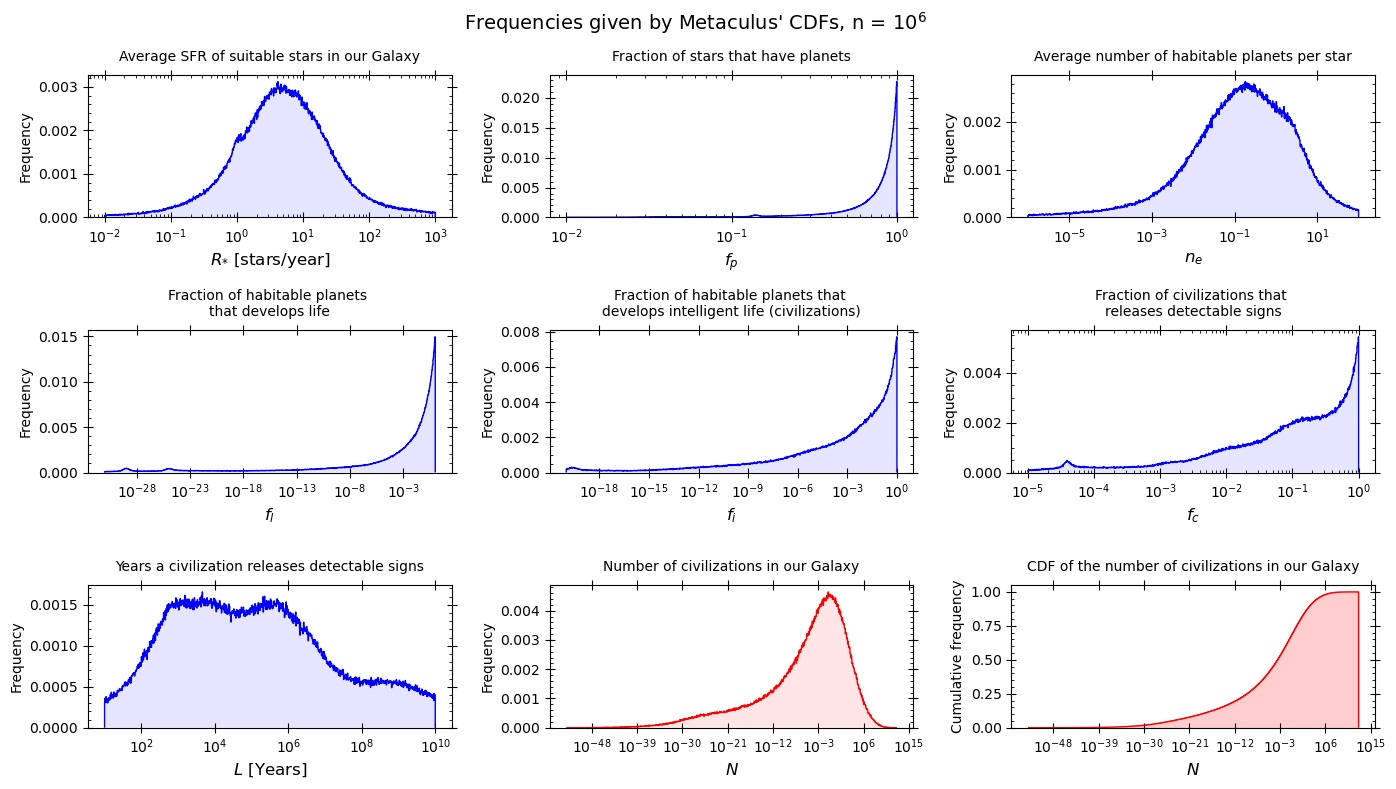
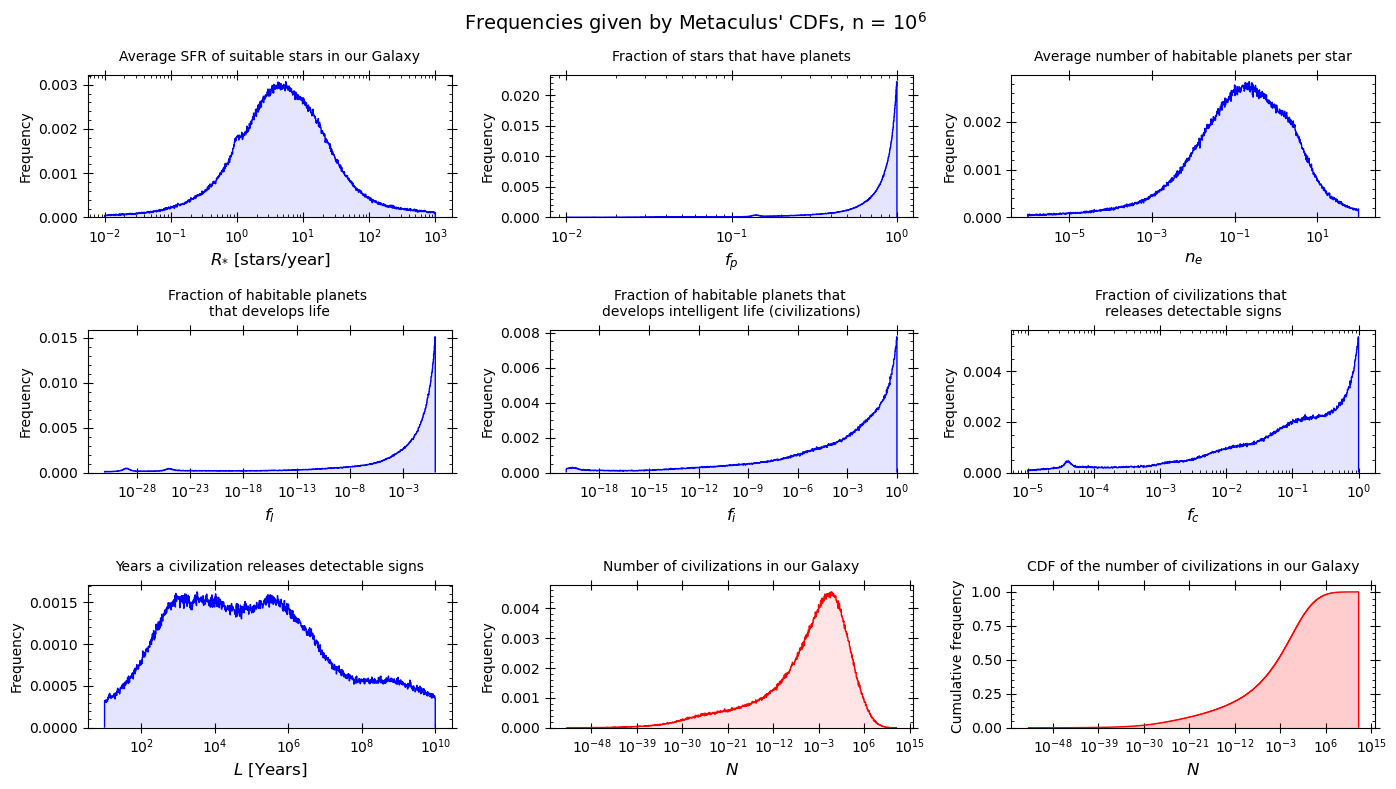
Ajustes de textos e texturas nos gráficos

diff --git a/Drake_Metaculus.py b/Drake_Metaculus.py
@@ -10,6 +10,8 @@ from statsmodels.distributions.empirical_distribution import ECDF
 
 #------------------------------------------------------------------------------
 #------------------------------------------------------------------------------
+print("Hello. Starting!")
+
 # urls of the csv data from the API
 url_Rs = "https://www.metaculus.com/api2/questions/1337/download_csv/"
 url_fp = "https://www.metaculus.com/api2/questions/1338/download_csv/"
@@ -79,37 +81,37 @@ def cdf_setter(url, xmin, xmax, q = 1000):
 #------------------------------------------------------------------------------
 #------------------------------------------------------------------------------
 # Running the function
-print("Reading and reducing the data...")
+print("Reading and reducing data...")
 
 quantity = 10**6 # quantity of data in the simulation
 
 df_Rs_cdf, df_Rs_pdf = cdf_setter(url = url_Rs, xmin = 0.01, xmax = 1000, q = quantity)
-print("Rs done!")
+print("Rs done.")
 df_fp_cdf, df_fp_pdf = cdf_setter(url = url_fp, xmin = 0.01, xmax = 1, q = quantity)
-print("fp done!")
+print("fp done.")
 df_ne_cdf, df_ne_pdf = cdf_setter(url = url_ne, xmin = 10**-6, xmax = 100, q = quantity)
-print("ne done!")
+print("ne done.")
 df_fl_cdf, df_fl_pdf = cdf_setter(url = url_fl, xmin = 10**-31, xmax = 1, q = quantity)
-print("fl done!")
+print("fl done.")
 df_fi_cdf, df_fi_pdf = cdf_setter(url = url_fi, xmin = 10**-20, xmax = 1, q = quantity)
-print("fi done!")
+print("fi done.")
 df_fc_cdf, df_fc_pdf = cdf_setter(url = url_fc, xmin = 10**-5, xmax = 1, q = quantity)
-print("fc done!")
+print("fc done.")
 df_L_cdf, df_L_pdf = cdf_setter(url = url_L, xmin = 10, xmax = 10**10, q = quantity)
-print("L done!")
+print("L done.")
 
 #------------------------------------------------------------------------------
 #------------------------------------------------------------------------------
-# Multiplying the factors
+# Multiplying the factors to find the N's
 print("Multiplying the factors...")
 
-N_cdf = (df_Rs_cdf["x_log"] * 
-         df_fp_cdf["x_log"] * 
-         df_ne_cdf["x_log"] * 
-         df_fl_cdf["x_log"] * 
-         df_fi_cdf["x_log"] * 
-         df_fc_cdf["x_log"] * 
-         df_L_cdf["x_log"])
+Ns = (df_Rs_cdf["x_log"] * 
+      df_fp_cdf["x_log"] * 
+      df_ne_cdf["x_log"] * 
+      df_fl_cdf["x_log"] * 
+      df_fi_cdf["x_log"] * 
+      df_fc_cdf["x_log"] * 
+      df_L_cdf["x_log"])
 
 #------------------------------------------------------------------------------
 #------------------------------------------------------------------------------
@@ -252,7 +254,7 @@ histogram(ax = ax7,
           nbins = nbins)
 # N
 histogram(ax = ax8, 
-          df_f = N_cdf,
+          df_f = Ns,
           color = (1.0, 0.0, 0.0, 0.1),
           edgecolor = "red",
           label = "Histo N", 
@@ -263,10 +265,10 @@ histogram(ax = ax8,
 
 #------------------------------------------------------------------------------
 # N cumulative fraction
-log_space_bins = np.logspace(np.log10(min(N_cdf)), np.log10(max(N_cdf)), nbins)
-weights = np.zeros_like(N_cdf) + 1./quantity
+log_space_bins = np.logspace(np.log10(min(Ns)), np.log10(max(Ns)), nbins)
+weights = np.zeros_like(Ns) + 1./quantity
 
-ax9.hist(N_cdf, 
+ax9.hist(Ns, 
          bins = log_space_bins, 
          histtype = "step",
          fill = True,
@@ -292,7 +294,7 @@ ax9.tick_params(which = "minor", direction = "in", length = 2)
 ax9.tick_params(which = "both", bottom = True, top = True, left = True, right = True)
 ax9.tick_params(labelbottom = True, labeltop = False, labelleft = True, labelright = False)
 
-ecdft = ECDF(N_cdf)
+ecdft = ECDF(Ns)
 ax9.fill_between(log_space_bins, ecdft(log_space_bins), color = "red", alpha = 0.1)
                  
 #------------------------------------------------------------------------------
@@ -398,12 +400,12 @@ plot(ax = ax7,
 print('Making the "smooth plot"...')
 
 # Estimating the PDF in log space, because it is not working in linear
-log_data = np.log10(N_cdf)
+log_data = np.log10(Ns)
 N_density = gaussian_kde(log_data)
 x = np.linspace(min(log_data), max(log_data), 100)
 
 # This integral should be ~ 1
-print("This integral should be ~1 \nIntegral =", simps(N_density(x), x))
+print("The next integral should be ~1 \nIntegral =", simps(N_density(x), x))
 
 #---------------------------------------
 ax8.plot(x, N_density(x), 
@@ -414,7 +416,7 @@ ax8.plot(x, N_density(x),
 # Design
 ax8.set_xlabel("log($N$)", fontsize = 10)
 ax8.set_ylabel("Probability", fontsize = 10)
-ax8.set_title("Number of civilizations in our galaxy", fontsize = 10, pad = 10)
+ax8.set_title("Number of civilizations in our Galaxy", fontsize = 10, pad = 10)
 #ax8.grid(True, linestyle = ":", linewidth = "1")
 
 # Axes
@@ -431,9 +433,9 @@ ax8.fill_between(x, N_density(x), color = "red", alpha = 0.1)
 # N CDF
 print('Making the CDF...')
 
-log_space_bins = np.logspace(np.log10(min(N_cdf)), np.log10(max(N_cdf)), 100)
+log_space_bins = np.logspace(np.log10(min(Ns)), np.log10(max(Ns)), 100)
 
-ax9.ecdf(N_cdf, 
+ax9.ecdf(Ns, 
          color = "red", 
          linewidth = 2,
          label = "Plot N ecdf")
@@ -476,9 +478,9 @@ ax1, ax2 = axes[0], axes[1]
 
 #------------------------------------------------------------------------------
 # N frequency in a smooth curve
-log_space_bins_edges = np.logspace(np.log10(min(N_cdf)), np.log10(max(N_cdf)), 1001)
+log_space_bins_edges = np.logspace(np.log10(min(Ns)), np.log10(max(Ns)), 1001)
 
-counts, _ = np.histogram(N_cdf, bins = log_space_bins_edges) # counts, bins
+counts, _ = np.histogram(Ns, bins = log_space_bins_edges) # counts, bins
 
 log_bin_widths = np.diff(log_space_bins_edges)
 total_observations = counts.sum()
@@ -504,7 +506,7 @@ ax1.plot(log_space_bins_edges[1:], N_interpolated,
 # Design
 ax1.set_xlabel("$N$", fontsize = 12)
 ax1.set_ylabel("Frequency of $N$", fontsize = 10)
-ax1.set_title("Number of civilizations in our galaxy", fontsize = 12, pad = 10)
+ax1.set_title("Number of civilizations in our Galaxy", fontsize = 12, pad = 10)
 #ax1.grid(True, linestyle = ":", linewidth = "1")
 
 # Axes
@@ -520,8 +522,28 @@ ax1.tick_params(labelbottom = True, labeltop = False, labelleft = True, labelrig
 ax1.fill_between(log_space_bins_midpoints, N_interpolated, color = "red", alpha = 0.1)
 
 #---------------------------------------
-# Alone in the Galaxy marker filling
-points = np.logspace(np.log10(min(N_cdf)), np.log10(1), 1000)
+# Not alone in the Galaxy hatch filling
+points = np.logspace(np.log10(1), np.log10(max(Ns)), 1000)
+
+ax1.fill_between(points, 
+                 interpolation(np.log10(points)), 
+                 hatch = '||', 
+                 edgecolor = (0,0,0,0.3), 
+                 fc = (0,1,0,0.0), 
+                 linewidth = 0.0,
+                 zorder = 1)
+
+# Adding text with info of probability of being alone in the galaxy
+# {:.0f} formats the number to have 0 places after the decimal, effectively making it an integer
+probability_not_alone_MW = (ecdft(10**12) - ecdft(1))*100
+formatted_probability = f"{probability_not_alone_MW:.0f}%"
+text = "Probability of\n NOT being\n  alone in the\n   Milky Way\n    galaxy\n    ($N > 1$): " + formatted_probability
+ax1.text(9*10**1, 0.0033, text, fontsize = 8)
+ax1.text(10**1, 0.00025, f'{probability_not_alone_MW:.0f}%', fontsize = 12)
+
+#---------------------------------------
+# Alone in the Galaxy hatch filling and line
+points = np.logspace(np.log10(min(Ns)), np.log10(1), 1000)
 
 ax1.fill_between(points, 
                  interpolation(np.log10(points)), 
@@ -542,17 +564,17 @@ ax1.vlines(x = 1,
 # {:.0f} formats the number to have 0 places after the decimal, effectively making it an integer
 probability_alone_MW = ecdft(1)*100
 formatted_probability = f"{probability_alone_MW:.0f}%"
-text = "Probability to be alone \nin the Milky Way galaxy \n($N = 1$): " + formatted_probability
-ax1.text(10**-32, 0.0025, text, fontsize = 10)
+text = "Probability of being alone \nin the Milky Way galaxy \n($N < 1$): " + formatted_probability
+ax1.text(10**-29, 0.0025, text, fontsize = 8)
 ax1.text(10**-8, 0.0008, f'{probability_alone_MW:.0f}%', fontsize = 12)
 
 #---------------------------------------
-# Alone in the observable Universe marker filling
-points = np.logspace(np.log10(min(N_cdf)), np.log10(5*10**-13), 1000)
+# Alone in the observable Universe hatch filling and line
+points = np.logspace(np.log10(min(Ns)), np.log10(5*10**-13), 1000)
 
 ax1.fill_between(points, 
                  interpolation(np.log10(points)), 
-                 hatch = '//', 
+                 hatch = '/', 
                  edgecolor = (0,0,0,0.3), 
                  fc = (0,1,0,0.1), 
                  linewidth = 0.0,
@@ -569,15 +591,15 @@ ax1.vlines(x = 5*10**-13,
 # {:.0f} formats the number to have 0 places after the decimal, effectively making it an integer
 probability_alone_OU = ecdft(5*10**-13)*100
 formatted_probability = f"{probability_alone_OU:.0f}%"
-text = "Probability to be alone \nin the observable Universe \n($N = 5 \\times 10^{{-13}}$): " + formatted_probability
-ax1.text(10**-50, 0.0005, text, fontsize = 10)
+text = "Probability of being alone \nin the observable Universe \n($N < 5 \\times 10^{{-13}}$): " + formatted_probability
+ax1.text(10**-47, 0.0005, text, fontsize = 8)
 ax1.text(10**-20, 0.00025, f'{probability_alone_OU:.0f}%', fontsize = 12)
 
 #------------------------------------------------------------------------------
 # N CDF
-log_space_bins = np.logspace(np.log10(min(N_cdf)), np.log10(max(N_cdf)), 1000)
+log_space_bins = np.logspace(np.log10(min(Ns)), np.log10(max(Ns)), 1000)
 
-ax2.ecdf(N_cdf, 
+ax2.ecdf(Ns, 
          color = "red", 
          linewidth = 2,
          label = "Plot N ecdf", 
@@ -602,7 +624,7 @@ ax2.tick_params(labelbottom = True, labeltop = False, labelleft = True, labelrig
 ax2.fill_between(log_space_bins, ecdft(log_space_bins), color = "red", alpha = 0.1)
 
 #---------------------------------------
-# Alone in the Galaxy marker filling
+# Alone in the Galaxy line
 ax2.vlines(x = 1, 
            color = "green", 
            ymin = 0, 
@@ -615,11 +637,11 @@ ax2.vlines(x = 1,
 # {:.0f} formats the number to have 0 places after the decimal, effectively making it an integer
 probability_alone_MW = ecdft(1)*100
 formatted_probability = f"{probability_alone_MW:.0f}%"
-text = "Probability to be alone \nin the Milky Way galaxy: \n($N = 1$): " + formatted_probability
-ax2.text(10**-27, 0.7, text, fontsize = 10)
+text = "Probability of being alone \nin the Milky Way galaxy: \n($N < 1$): " + formatted_probability
+ax2.text(5*10**-23, 0.7, text, fontsize = 8)
 
 #---------------------------------------
-# Alone in the observable Universe marker filling
+# Alone in the observable Universe line
 ax2.vlines(x = 5*10**-13, 
            color = "red", 
            ymin = 0, 
@@ -632,8 +654,8 @@ ax2.vlines(x = 5*10**-13,
 # {:.0f} formats the number to have 0 places after the decimal, effectively making it an integer
 probability_alone_OU = ecdft(5*10**-13)*100
 formatted_probability = f"{probability_alone_OU:.0f}%"
-text = "Probability to be alone \nin the observable Universe: \n($N = 5 \\times 10^{{-13}}$): " + formatted_probability
-ax2.text(10**-42, 0.15, text, fontsize = 10)
+text = "Probability of being alone \nin the observable Universe: \n($N < 5 \\times 10^{{-13}}$): " + formatted_probability
+ax2.text(10**-38, 0.15, text, fontsize = 8)
 
 #------------------------------------------------------------------------------
 # Adjusting the vertical and horizontal spacing, so there are no overlapings
